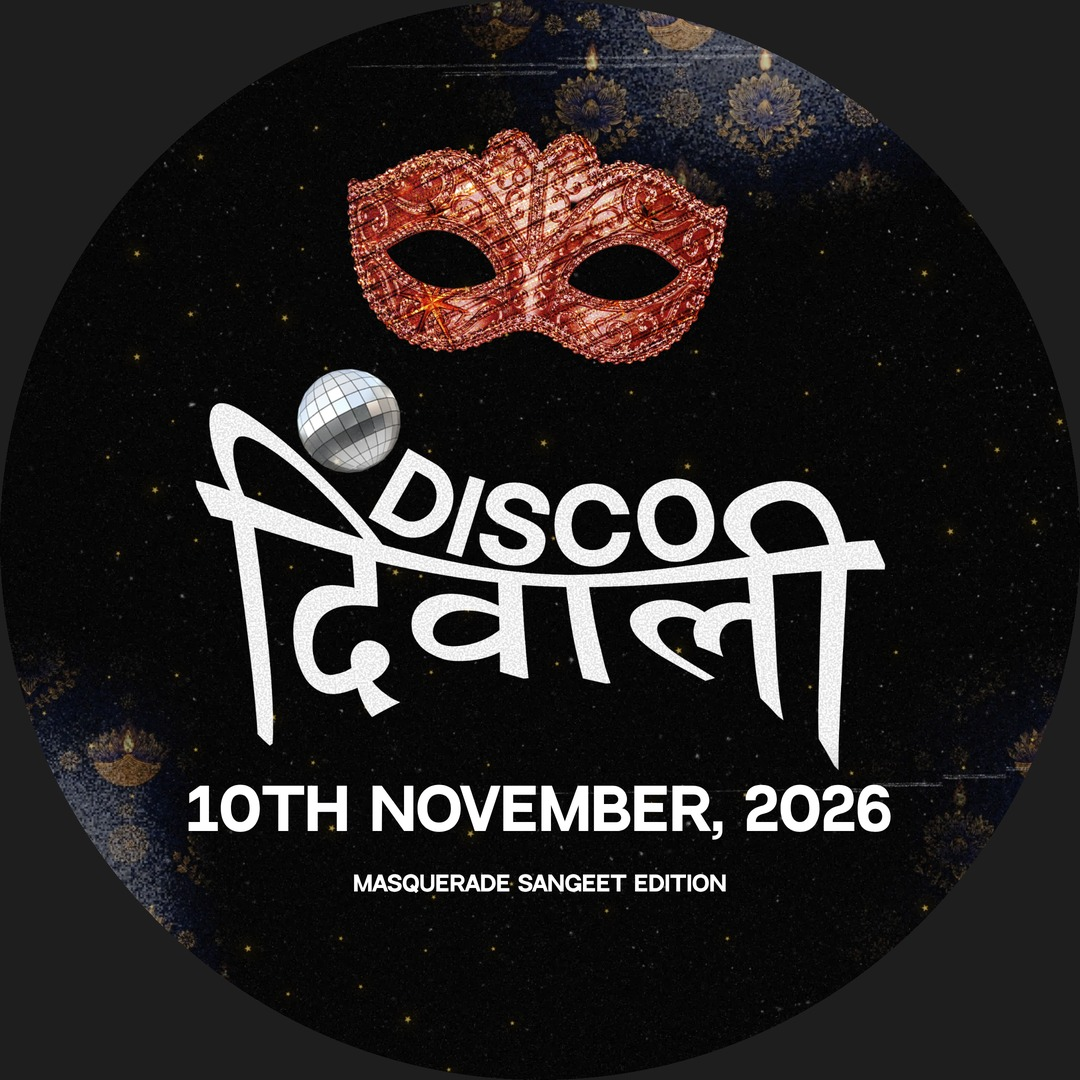
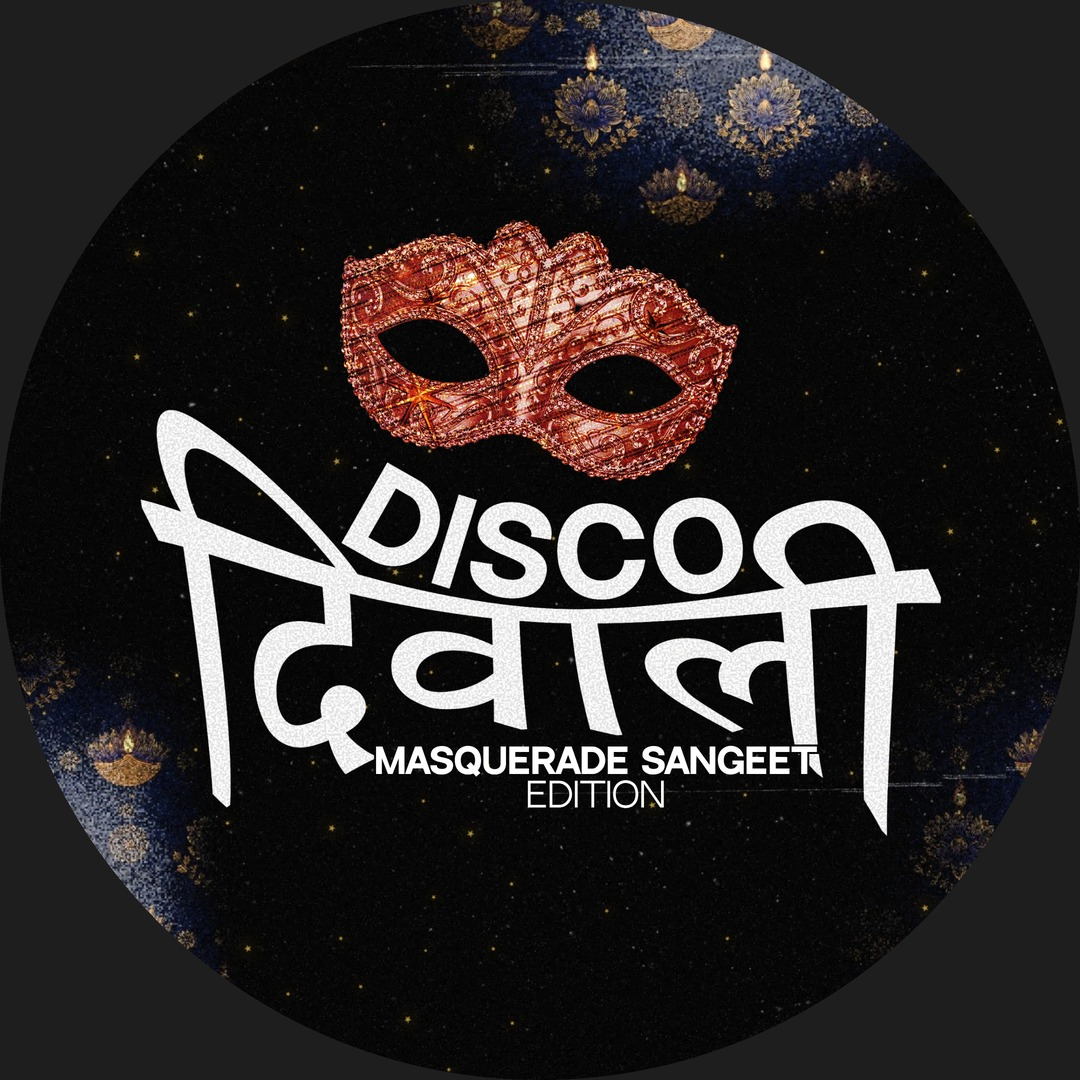
Disco Diwali: WhatsApp DP rebuilt in the approved design, inside the circular crop
Claude-Session: https://claude.ai/code/session_01SvqxkoTEENgXPyjFifmnqB

Changed region(s): [[0.0306, 0.0, 0.8861, 0.8556], [0.9472, 0.6722, 0.9778, 0.7028], [0.1528, 0.8556, 0.1833, 0.8861]]

diff --git a/engine/discodiwali.py b/engine/discodiwali.py
@@ -60,11 +60,11 @@ REQUIRED = {
     "teaser_trio":  ("edition", "date", "line", "photos", "cta"),
     "story_launch": ("edition", "status", "photo"),
     "wa_poster":    ("edition", "date", "time", "status", "photo"),
-    "wa_dp":        ("edition", "date"),
+    "wa_dp":        ("edition",),
     "story_ref":    ("edition", "status", "photo"),
     "poster_ref":   ("edition", "status"),
 }
-OPTIONAL = {"announce": ("note", "photo"), "countdown": ("unit",), "tickets_open": ("detail", "date"), "sold_out": (), "save_the_date": (), "teaser_full": (), "teaser_arch": (), "teaser_trio": (), "story_launch": ("note", "date", "time"), "wa_poster": ("note",), "wa_dp": (), "story_ref": ("note", "link"), "poster_ref": ("note", "link")}
+OPTIONAL = {"announce": ("note", "photo"), "countdown": ("unit",), "tickets_open": ("detail", "date"), "sold_out": (), "save_the_date": (), "teaser_full": (), "teaser_arch": (), "teaser_trio": (), "story_launch": ("note", "date", "time"), "wa_poster": ("note",), "wa_dp": ("date",), "story_ref": ("note", "link"), "poster_ref": ("note", "link")}
 
 # SVG shader used by style="blue": splits the title lockup into R/G/B copies offset +-3px and screen-blends them back.
 BLUE_DEFS = ('<svg width="0" height="0" style="position:absolute"><defs><filter id="ca" x="-4%" y="-4%" width="108%" height="108%" color-interpolation-filters="sRGB">'
@@ -698,26 +698,29 @@ class Poster:
         self._announce_editorial()
 
     def _wa_dp(self):
-        """A group display picture: 1080x1080, but WhatsApp crops it to a CIRCLE, so everything lives inside r~470 of the centre. Title, a small
-        mask, the date and the edition line. No LIVE badge: it would be cropped and unreadable at DP size."""
-        W, H = self.W, self.H
-        P = self.parts
+        """WhatsApp group DP in the approved design family (user, 2026-10-13: "rebuild the DP to match"). 1080x1080 shown as a CIRCLE r=540, so
+        the poster's elements are scaled down and centred: copper mask, ball-free title (tuck of the edition lines kept), white NeutralFace with
+        the black border, diya plate. No LIVE badge (cropped and unreadable at DP size) and no date unless one is supplied."""
+        W, H, P = self.W, self.H, self.parts
         P.append(f'<div style="position:absolute;inset:0;background:{GROUND}"></div>')
         self.img("bg_diya_portrait.jpg", 0, -(1350 - W) // 2, W, 1350, z=1, tag="plate")
-        P.append('<div data-tag="plate" style="position:absolute;inset:0;z-index:2;pointer-events:none;background:radial-gradient(circle at 50% 54%,rgba(0,0,0,.78),rgba(0,0,0,.35) 62%,rgba(0,0,0,0) 100%)"></div>')
-        # mask: content spans x160-1560 / y215-1135 of the 1680x1278 asset; scale .25 puts its content ~350px wide
-        # WhatsApp shows a CIRCLE of r=540 about the centre. Chord half-width at height y: sqrt(540^2 - (y-540)^2). The date, the widest
-        # line, sits at y~740 where the chord is ~1000 wide, so a 56px NeutralFace date (~650px) clears the edge with room.
-        k = .27
-        mc = (540, 251)                                  # mask content centre
-        self.img("mask_copper.png", round(mc[0] - 860 * k), round(mc[1] - 675 * k), round(1680 * k), z=6, tag="mask",
-                 extra="transform:rotate(-6deg);filter:drop-shadow(0 6px 18px rgba(0,0,0,.6));")
-        self.box("mask", round(mc[0] - 700 * k), round(mc[1] - 460 * k), round(1400 * k), round(920 * k))
-        self.title(scale=.66, cx_shift=round((W - 1160 * .66 * .9) / 2 - S(30)), y_ref=412)
-        self.raw("date", self.c["date"], W // 2, 812, 700, 64,
-                 f"font-family:var(--e);font-weight:600;font-size:56px;letter-spacing:.04em;{self.FOIL}filter:drop-shadow(0 2px 1px rgba(0,0,0,.95)) drop-shadow(0 0 20px rgba(0,0,0,.75))")
-        self.raw("edition", self.c["edition"].upper(), W // 2, 884, 640, 30,
-                 f"font-family:var(--e);font-weight:600;font-size:21px;letter-spacing:.3em;text-indent:.3em;color:{self.GL}")
+        DY = 50                                           # centres the content's mass on the circle's centre
+        k = .2847                                         # copper mask: visible width 400 (the poster's 692 at 0.58x)
+        mx, my = 340, 170 + DY
+        self.img("mask_copper.png", round(mx - 157 * k), round(my - 211 * k), round(1680 * k), z=6, tag="mask",
+                 extra="filter:drop-shadow(0 6px 18px rgba(0,0,0,.6));")
+        self.box("mask", mx, my, 400, 263)
+        t = .466                                          # ball-free title: visible width 800, left 140
+        tx, ty = 140, 360 + DY
+        self.img("title_lockup_noball.png", round(tx - 265 * t), round(ty - 401 * t), round(2000 * t), z=9, tag="title")
+        self.box("title", tx, ty, 800, 425)
+        r = t / .6034 * 1.15                              # the poster's edition lines at this scale, nudged up for DP-size legibility
+        self.raw("sub1", "MASQUERADE SANGEET", 540 + round(72 * t / .6034), ty + round(456 * t / .6034), round(520 * r), round(44 * r),
+                 f"font-family:var(--e);font-weight:600;font-size:{round(38 * r)}px")
+        self.raw("sub2", "Edition", 540 + round(72 * t / .6034), ty + round(501 * t / .6034), round(170 * r), round(40 * r),
+                 f"font-family:var(--e);font-weight:400;font-size:{round(37 * r)}px")
+        if self.c.get("date"):
+            self.raw("date", self.c["date"], 540, ty + 470, 600, 50, "font-family:var(--e);font-weight:600;font-size:40px")
 
     def _teaser_full(self):
         c, di = self.c, self.dy_info

diff --git a/scratchpad/test_discodiwali.py b/scratchpad/test_discodiwali.py
@@ -11,7 +11,7 @@ Each assertion reproduces something that went wrong building the set (2026-10-13
 
 Run:  PYTHONIOENCODING=utf-8 python scratchpad/test_discodiwali.py
 """
-import datetime, importlib.util, os, re, sys
+import math, datetime, importlib.util, os, re, sys
 
 os.chdir(os.path.dirname(os.path.dirname(os.path.abspath(__file__))))
 ENGINE = os.path.join(os.getcwd(), "engine")
@@ -287,5 +287,14 @@ ok("LINK IN BIO" in visible_text(prh), "the Instagram poster keeps its link pill
 bq = dd.Poster("poster_ref", dict(PR, link="Link below"), "feed"); bh = bq.build(); bb = {e[0]: e for e in bq.elements}
 ok("LINK BELOW" in visible_text(bh) and "LINK IN BIO" not in visible_text(bh), "the pill reads LINK BELOW and not LINK IN BIO")
 ok(all(bb[k] == prb[k] for k in prb) and set(bb) == set(prb), "every element sits exactly where it does on the Instagram poster")
+
+# --- the DP rebuilt in the approved design (user, 2026-10-13) ----------------------------------------------------------------------------
+dq = dd.Poster("wa_dp", dict(edition="Masquerade Sangeet Edition"), "square"); dh2 = dq.build(); dbx = {e[0]: e for e in dq.elements}
+ok(all(math.hypot(cx - 540, cy - 540) <= 540 for e in dq.elements for cx in (e[1], e[1] + e[3]) for cy in (e[2], e[2] + e[4])),
+   "EVERY declared box of the new DP (mask, title, both edition lines) lies inside the circular crop")
+ok("date" not in dbx and not any(w in visible_text(dh2) for w in ("NOVEMBER", "2026")), "the DP prints no date by default")
+ok(_nb in dh2 and _wb not in dh2, "the DP uses the ball-free title lockup")
+ok(_dp in dh2 and "var(--e)" not in dh2 and "var(--s)" not in dh2, "the DP sits on the diya plate with NeutralFace-only type")
+ok("LIVE" not in visible_text(dh2) and "badge" not in dbx, "the DP carries no LIVE badge")
 
 print(f"\nALL {N} ASSERTIONS PASSED")

diff --git a/scratchpad/dd_launch_pack.py b/scratchpad/dd_launch_pack.py
@@ -33,7 +33,7 @@ async def main():
                                    style="photo", mask=mk, typo=ty, layout=lay)
         await dd.render_poster("wa_poster", dict(FACTS, photo="05"), "feed", os.path.join(out, "whatsapp_poster.png"),
                                style="photo", mask="copper", typo="foil")
-        await dd.render_poster("wa_dp", dict(edition=FACTS["edition"], date=FACTS["date"]), "square", os.path.join(out, "whatsapp_dp.png"),
+        await dd.render_poster("wa_dp", dict(edition=FACTS["edition"]), "square", os.path.join(out, "whatsapp_dp.png"),
                                style="plate", mask="copper")
     from PIL import Image, ImageDraw
     dp = Image.open(os.path.join(out, "whatsapp_dp.png")).convert("RGB")
